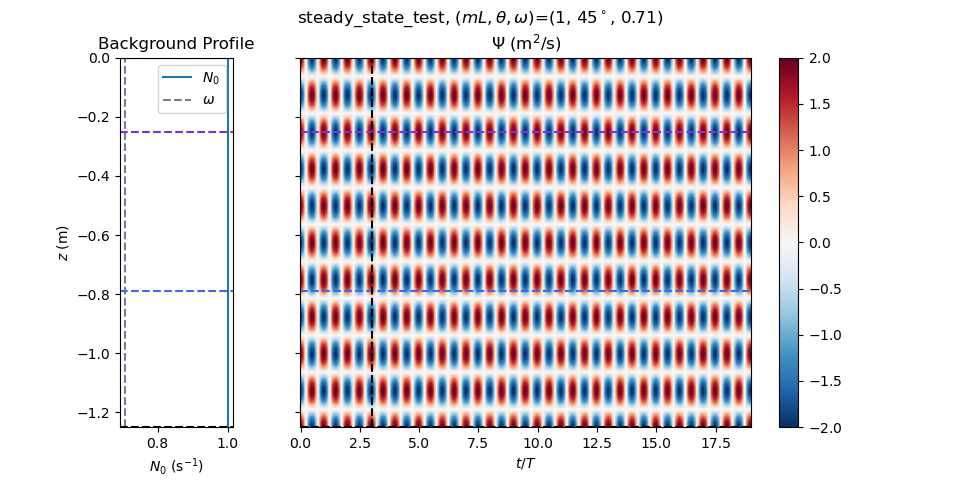
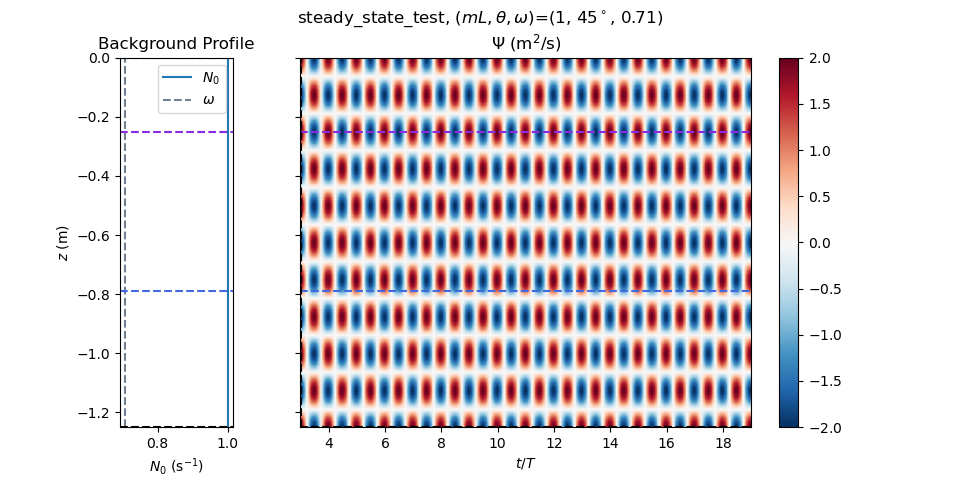
Added option to trim transient oscillations at beginning of sim

Changed region(s): [[0.2812, 0.125, 0.7812, 0.9375]]

diff --git a/steady_state_test.py b/steady_state_test.py
@@ -68,7 +68,6 @@ z = np.linspace(zf_dis, z0_dis, nz) # careful about the order of endpoints
 #stop_sim_time, nt  = hf.extended_stop_time(sbp.sim_time_stop, dt)
 stop_sim_time = sbp.sim_time_stop
 nt = stop_sim_time / dt
-print("nt=",nt)
 t = np.linspace(0.0, stop_sim_time, int(nt))
 # Find wavenumbers
 kz = np.fft.fftfreq(len(z), dz)
@@ -136,6 +135,7 @@ def is_power_of_2(x):
 def FT_in_time(t, z, data, dt, omega):
     # Check to make sure the time dimension matches
     nt = len(t)
+    print("nt=",nt)
     nt_data = data.shape[1]
     if nt != nt_data:
         print('MISMATCH IN nt!')
@@ -204,8 +204,12 @@ def Complex_Demodulate(t_then_z, t, z, kz, data, dt, omega):
         dn_field = FT_in_time(t, z, ift_z_y_n, dt, omega)[0]
     return up_field, dn_field
 
+# Trimming the data
+tr_z, tr_t, tr_psi = hf.trim_data(z, t, psi, z0_dis=None, zf_dis=None, T_cutoff=T_cutoff, T=T)
+
 t_then_z = True
 up_field, dn_field = Complex_Demodulate(t_then_z, t, z, kz, psi, dt, omega)
+tr_up_field, tr_dn_field = Complex_Demodulate(t_then_z, tr_t, tr_z, kz, tr_psi, dt, omega)
 
 ###############################################################################
 # Profiling the code
@@ -218,6 +222,7 @@ if profile_it == True:
     p = pstats.Stats('restats')
     p.sort_stats(SortKey.CUMULATIVE).print_stats(10)
 ###############################################################################
+
 # Measuring the transmission coefficient
 
 I_, T_, AAcc_I, AAcc_T = hf.measure_T(dn_field, z, z_I, z_T, T_skip=None, T=T, t=t)
@@ -226,19 +231,28 @@ print("Transmission coefficient is:", big_T)
 
 ###############################################################################
 # What to plot
-
-plot_up     = up_field #up_field
-plot_dn     = dn_field #dn_field
-plot_psi    = (psi) #- psi_hat.real # psi.real
+show_trimmed = True
+if show_trimmed:
+    plot_up = tr_up_field
+    plot_dn = tr_dn_field
+    plot_psi = tr_psi
+    plot_z = tr_z
+    plot_t = tr_t
+else:
+    plot_up     = up_field
+    plot_dn     = dn_field
+    plot_psi    = psi
+    plot_z = z
+    plot_t = t
 
 ###############################################################################
 # Plotting and stuff
 
 if sbp.plot_windows:
-    hf.plot_v_profiles(z, BP_array, sbp.win_bf_array, sbp.win_sp_array, mL=mL, theta=theta, omega=omega, z_I=z_I, z_T=z_T, z0_dis=z0_dis, zf_dis=zf_dis, title_str=run_name, filename='ss_1D_windows.png')
+    hf.plot_v_profiles(plot_z, BP_array, sbp.win_bf_array, sbp.win_sp_array, mL=mL, theta=theta, omega=omega, z_I=z_I, z_T=z_T, z0_dis=z0_dis, zf_dis=zf_dis, title_str=run_name, filename='ss_1D_windows.png')
 
 if sbp.plot_spacetime:
-    hf.plot_z_vs_t(z, t, T, plot_psi.real, BP_array, mL, theta, omega, z_I=z_I, z_T=z_T, z0_dis=z0_dis, zf_dis=zf_dis, plot_full_domain=plt_fd, T_cutoff=T_cutoff, title_str=run_name, filename='ss_1D_wave.png')
+    hf.plot_z_vs_t(plot_z, plot_t, T, plot_psi.real, BP_array, mL, theta, omega, z_I=z_I, z_T=z_T, z0_dis=z0_dis, zf_dis=zf_dis, plot_full_domain=plt_fd, T_cutoff=T_cutoff, title_str=run_name, filename='ss_1D_wave.png')
 
 if sbp.plot_freqspace:
     foobar, psi_FT_t, freqs = FT_in_time(t, z, psi, dt, omega)
@@ -248,19 +262,19 @@ if sbp.plot_freqspace:
     hf.plot_freq_space(z, freqs, psi_FT_t.real, psi_FT_t.imag, mL, theta, omega, plot_full_domain=plt_fd, title_str=run_name, filename='ss_1D_freq_spectra.png')
 
 if sbp.plot_amplitude:
-    hf.plot_A_of_I_T(z, t, T, plot_dn, mL, theta, omega, z_I, z_T, T_cutoff=T_cutoff, title_str=run_name, filename='ss_1D_A_of_I_T.png')
+    hf.plot_A_of_I_T(plot_z, plot_t, T, plot_dn, mL, theta, omega, z_I, z_T, T_cutoff=T_cutoff, title_str=run_name, filename='ss_1D_A_of_I_T.png')
 
 if sbp.plot_amplitude:
-    hf.plot_AA_for_z(z, BP_array, hf.AAcc(plot_dn), mL, theta, omega, z_I=z_I, z_T=z_T, z0_dis=z0_dis, zf_dis=zf_dis, plot_full_domain=plt_fd, title_str=run_name, filename='ss_1D_AA_for_z.png')
+    hf.plot_AA_for_z(plot_z, BP_array, hf.AAcc(plot_dn), mL, theta, omega, z_I=z_I, z_T=z_T, z0_dis=z0_dis, zf_dis=zf_dis, plot_full_domain=plt_fd, title_str=run_name, filename='ss_1D_AA_for_z.png')
 
 if sbp.plot_up_dn:
-    hf.plot_z_vs_t(z, t, T, plot_up.real, BP_array, mL, theta, omega, z0_dis=z0_dis, zf_dis=zf_dis,  plot_full_domain=plt_fd, T_cutoff=None, title_str=run_name+' up', filename='ss_1D_up_field.png')
-    hf.plot_z_vs_t(z, t, T, plot_dn.real, BP_array, mL, theta, omega, z0_dis=z0_dis, zf_dis=zf_dis, plot_full_domain=plt_fd, T_cutoff=None, title_str=run_name+' dn', filename='ss_1D_dn_field.png')
+    hf.plot_z_vs_t(plot_z, plot_t, T, plot_up.real, BP_array, mL, theta, omega, z0_dis=z0_dis, zf_dis=zf_dis,  plot_full_domain=plt_fd, T_cutoff=None, title_str=run_name+' up', filename='ss_1D_up_field.png')
+    hf.plot_z_vs_t(plot_z, plot_t, T, plot_dn.real, BP_array, mL, theta, omega, z0_dis=z0_dis, zf_dis=zf_dis, plot_full_domain=plt_fd, T_cutoff=None, title_str=run_name+' dn', filename='ss_1D_dn_field.png')
 
 plot_CD_checks = False
 if plot_CD_checks:
     # Add up and down fields to see if they reproduce the original psi field
-    up_plus_dn = up_field.real + dn_field.real
+    up_plus_dn = plot_up.real + plot_dn.real
     hf.plot_z_vs_t(z, t, T, up_plus_dn, BP_array, mL, theta, omega, z0_dis=z0_dis, zf_dis=zf_dis, plot_full_domain=plt_fd, nT=None, title_str=run_name, filename='ss_1D_up_plus_dn.png')
     # Plot the difference, which ideally should be zero everywhere
     CD_diff = psi.real - up_plus_dn

diff --git a/helper_functions.py b/helper_functions.py
@@ -189,6 +189,45 @@ def extended_stop_time(sim_time_stop, dt):
     new_sim_time_stop = dt * (2**i)
     return new_sim_time_stop, int(nt)
 
+def trim_data(z_array, t_array, data, z0_dis=None, zf_dis=None, T_cutoff=None, T=None):
+    """
+    Trims data, removes time before T_cutoff and space outside display domain
+
+    z_array     array of z values
+    t_array     array of time values (in seconds)
+    data        data to be trimmed (z, t)
+    z_I         depth at which to measure Incident wave
+    z_T         depth at which to measure Transmitted wave
+    z0_dis      top of vertical structure extent
+    zf_dis      bottom of vertical structure extent
+    T_cutoff    integer, oscillations to cut off of beginning of simulation
+    T           oscillation period (in seconds)
+    """
+    ## Trim time before T_cutoff
+    if T_cutoff != None and T != None:
+        # Find time in seconds of cutoff
+        cutoff_time = T_cutoff * T
+        # Find index of cutoff time
+        idx_cutoff = find_nearest_index(t_array, cutoff_time)
+        # Trim time
+        t_data = data[:,idx_cutoff:]
+        trimmed_t_array = t_array[idx_cutoff:]
+    else:
+        t_data = data
+        trimmed_t_array = t_array
+    ## Trim space to only encompass display bounds
+    if z0_dis != None and zf_dis != None:
+        # Find indices of display bounds
+        idx_z0 = find_nearest_index(z_array, z0_dis)
+        idx_zf = find_nearest_index(z_array, zf_dis)
+        # Trim space ### careful of the order, zf is bottom, so should have lower index?
+        trimmed_data = t_data[idx_zf:idx_z0,:]
+        trimmed_z_array = z_array[idx_zf:idx_z0]
+    else:
+        trimmed_data = t_data
+        trimmed_z_array = z_array
+    return trimmed_z_array, trimmed_t_array, trimmed_data
+
 ###############################################################################
 
 def set_fig_axes(heights, widths, fig_ratio=0.5):
@@ -320,6 +359,8 @@ def add_measure_lines(ax, z_I=None, z_T=None):
 
 def add_lines_to_ax(ax, z_I=None, z_T=None, z0_dis=None, zf_dis=None, T_cutoff=None):
     """
+    Adds straight lines, either vertical or horizontal depending, to the provided axis
+
     ax          axis for plot
     z_I         depth at which to measure Incident wave
     z_T         depth at which to measure Transmitted wave
@@ -345,6 +386,8 @@ def add_lines_to_ax(ax, z_I=None, z_T=None, z0_dis=None, zf_dis=None, T_cutoff=N
 # Plot background profile
 def plot_BP(ax, BP, z, omega=None):
     """
+    Plots the background profile as a function of z
+
     ax          axis for plot
     BP          array of background profile in N_0
     z           array of z values
